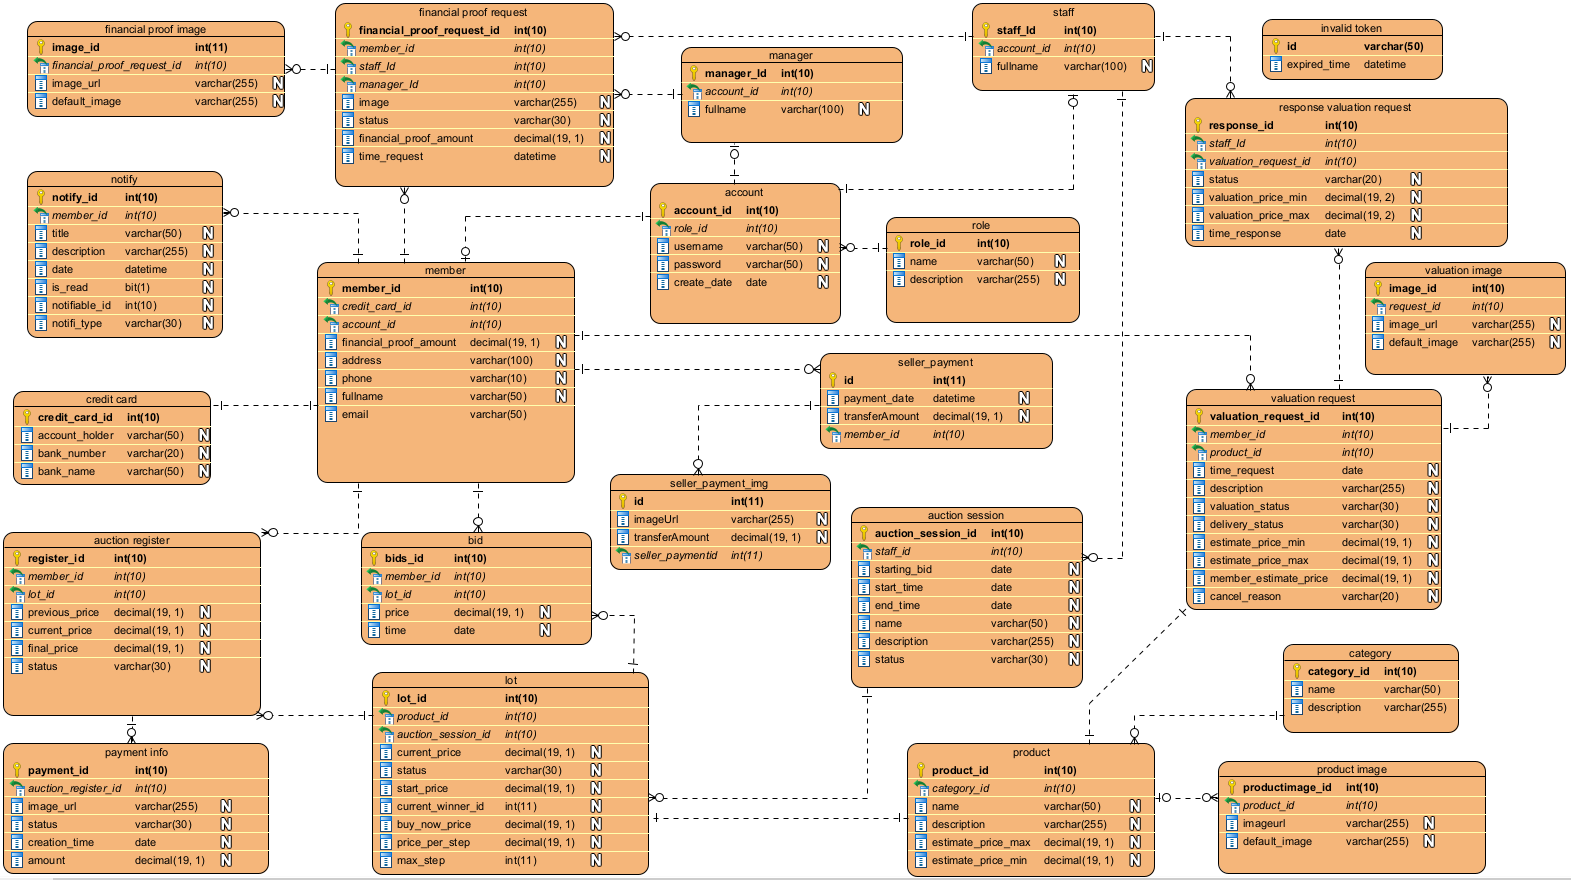
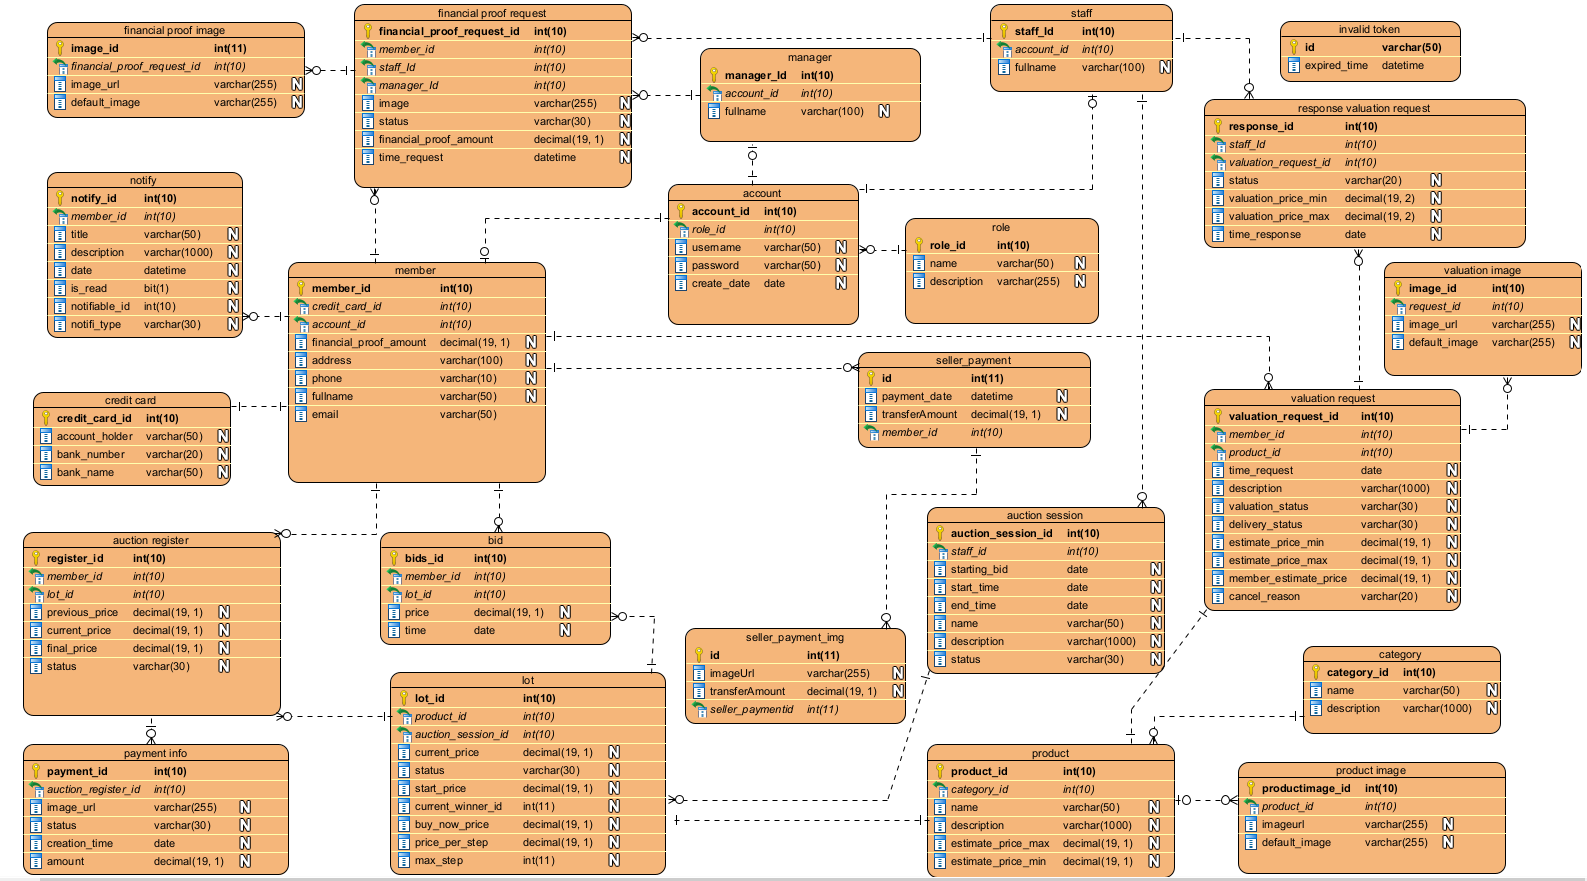
update: description

Changed region(s): [[0.0, 0.0, 0.9981, 1.0], [0.0, 0.583, 0.1871, 1.0], [0.9981, 0.9818, 1.0, 1.0]]

diff --git a/ManagerUI/src/utils/axiosCustomize.jsx b/ManagerUI/src/utils/axiosCustomize.jsx
@@ -2,7 +2,7 @@ import axios from "axios";
 
 const instance = axios.create({
   baseURL: "https://jewelry-auction-system.azurewebsites.net/",
-  //baseURL: "http://localhost:8080/",
+  //  baseURL: "http://localhost:8080/",
 });
 
 // Add a request interceptor

diff --git a/JewelryAuctionSystem/src/main/java/com/fpt/edu/entity/ValuationRequest.java b/JewelryAuctionSystem/src/main/java/com/fpt/edu/entity/ValuationRequest.java
@@ -41,7 +41,7 @@ public class ValuationRequest {
     @Column(name = "member_estimate_price", precision = 19, scale = 1, nullable = true)
     private BigDecimal memberEstimatePrice;
 
-    @Column(name = "description")
+    @Column(name = "description",length=1000)
     private String description;
 
     @Column(name = "cancel_reason", nullable = true)

diff --git a/JewelryAuctionSystem/src/main/java/com/fpt/edu/entity/AuctionSession.java b/JewelryAuctionSystem/src/main/java/com/fpt/edu/entity/AuctionSession.java
@@ -39,7 +39,7 @@ public class AuctionSession {
     @Column(name = "name", length = 50)
     private String name;
 
-    @Column(name = "description")
+    @Column(name = "description", length=1000)
     private String description;
 
     private String image;

diff --git a/JewelryAuctionSystem/src/main/java/com/fpt/edu/entity/Category.java b/JewelryAuctionSystem/src/main/java/com/fpt/edu/entity/Category.java
@@ -22,7 +22,7 @@ public class Category {
     @Column(name = "name", length = 50)
     private String name;
 
-    @Column(name = "description")
+    @Column(name = "description",length=1000)
     private String description;
 
     @JsonIgnore
